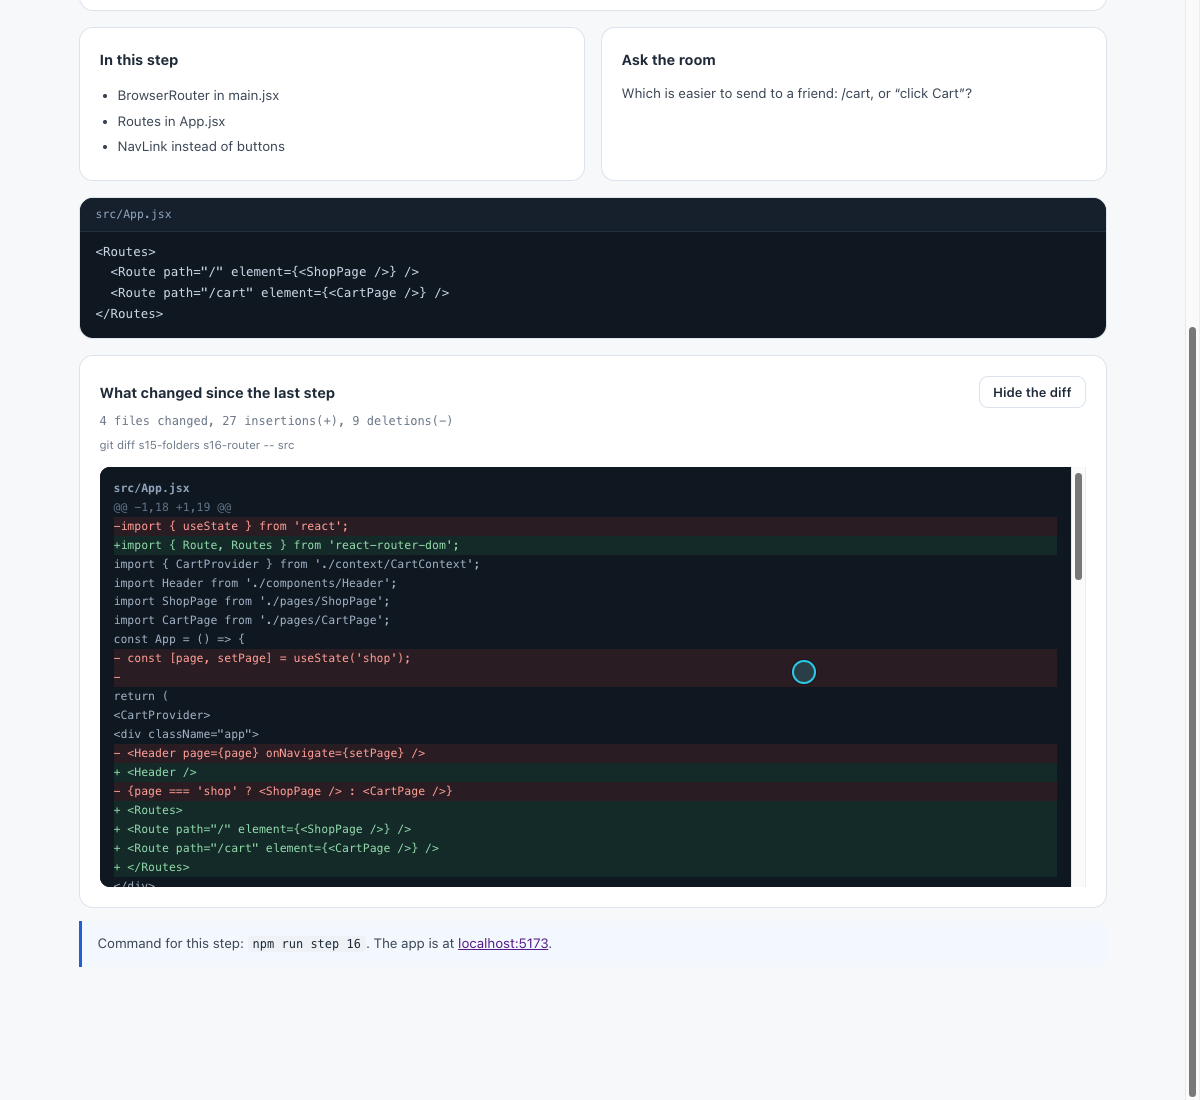
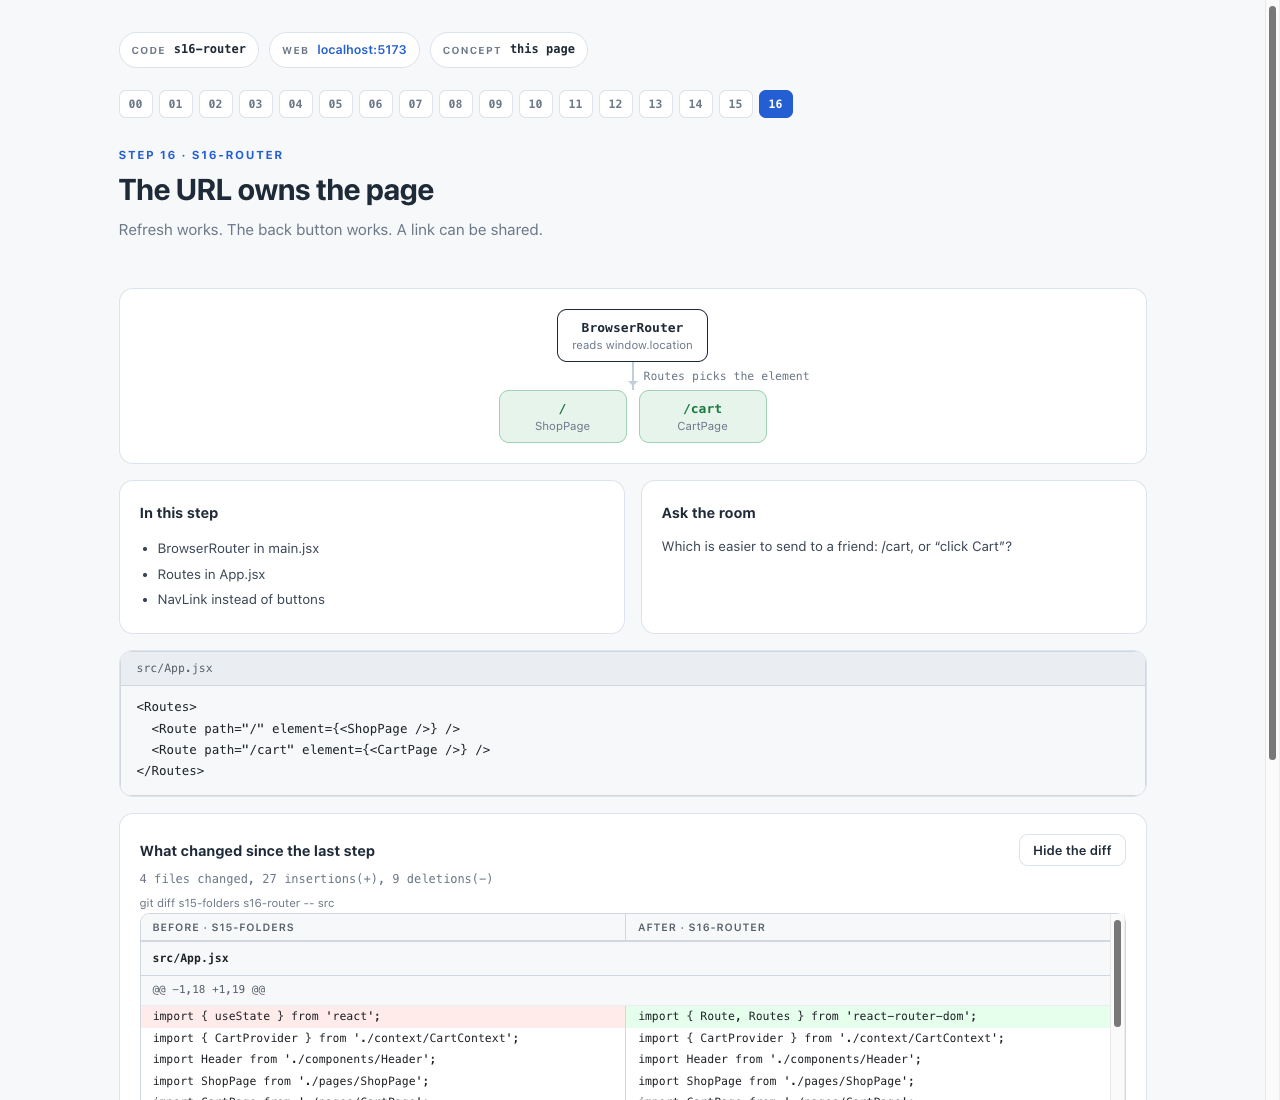
concepts: split diff, light code theme

diff --git a/concepts/step.html b/concepts/step.html
@@ -75,38 +75,80 @@ let manual = false;
 const esc = (s) => s.replace(/&/g, '&amp;').replace(/</g, '&lt;').replace(/>/g, '&gt;');
 let diffFor = null;
 
-function diffHtml(raw) {
-  let html = '';
+function diffHtml(raw, from, to) {
+  const files = [];
+  let file = null;
+  let hunk = null;
+  let dels = [];
+  let adds = [];
+
+  const flush = () => {
+    if (!hunk) return;
+    const rows = Math.max(dels.length, adds.length);
+    for (let i = 0; i < rows; i += 1) {
+      hunk.rows.push({ left: dels[i], right: adds[i] });
+    }
+    dels = [];
+    adds = [];
+  };
 
   for (const line of raw.split('\n')) {
     if (line.startsWith('diff --git')) {
+      flush();
       const match = line.match(/ b\/(.*)$/);
-      html += `<span class="f">${esc(match ? match[1] : line)}</span>`;
-    } else if (
-      line.startsWith('index ') ||
-      line.startsWith('--- ') ||
-      line.startsWith('+++ ') ||
-      line.startsWith('similarity index')
-    ) {
-      /* noise */
+      file = { path: match ? match[1] : line, note: '', hunks: [] };
+      files.push(file);
+      hunk = null;
+    } else if (!file) {
+      continue;
     } else if (line.startsWith('new file mode')) {
-      html += '<span class="h">new file</span>';
+      file.note = 'new file';
     } else if (line.startsWith('rename from ')) {
-      html += `<span class="h">renamed from ${esc(line.slice(12))}</span>`;
+      file.note = `renamed from ${line.slice(12)}`;
     } else if (line.startsWith('rename to ')) {
-      html += `<span class="h">renamed to ${esc(line.slice(10))}</span>`;
+      file.note = `${file.note} → ${line.slice(10)}`;
     } else if (line.startsWith('@@')) {
-      html += `<span class="h">${esc(line)}</span>`;
-    } else if (line.startsWith('+')) {
-      html += `<span class="add">${esc(line)}</span>`;
+      flush();
+      hunk = { header: line, rows: [] };
+      file.hunks.push(hunk);
+    } else if (!hunk) {
+      continue;
     } else if (line.startsWith('-')) {
-      html += `<span class="del">${esc(line)}</span>`;
-    } else {
-      html += `<span class="ctx">${esc(line)}</span>`;
+      dels.push(line.slice(1));
+    } else if (line.startsWith('+')) {
+      adds.push(line.slice(1));
+    } else if (line.startsWith(' ')) {
+      flush();
+      const text = line.slice(1);
+      hunk.rows.push({ left: text, right: text, ctx: true });
+    }
+  }
+  flush();
+
+  let html = `<div class="diff2">
+    <div class="diff2-head"><span>before · ${esc(from)}</span><span>after · ${esc(to)}</span></div>`;
+
+  for (const f of files) {
+    html += `<div class="diff2-file">${esc(f.path)}${f.note ? ` <em>${esc(f.note)}</em>` : ''}</div>`;
+
+    for (const h of f.hunks) {
+      html += `<div class="diff2-hunk">${esc(h.header)}</div>`;
+
+      for (const row of h.rows) {
+        const left =
+          row.left === undefined
+            ? '<div class="diff2-cell empty"></div>'
+            : `<div class="diff2-cell ${row.ctx ? 'ctx' : 'del'}">${esc(row.left) || '&#8203;'}</div>`;
+        const right =
+          row.right === undefined
+            ? '<div class="diff2-cell empty"></div>'
+            : `<div class="diff2-cell ${row.ctx ? 'ctx' : 'add'}">${esc(row.right) || '&#8203;'}</div>`;
+        html += `<div class="diff2-row">${left}${right}</div>`;
+      }
     }
   }
 
-  return html;
+  return `${html}</div>`;
 }
 
 async function loadDiff(n) {
@@ -136,7 +178,7 @@ async function loadDiff(n) {
     stat.textContent = (data.stat.split('\n').pop() || '').trim();
     cmd.textContent = `git diff ${data.from} ${data.to} -- src`;
 
-    body.innerHTML = diffHtml(data.raw);
+    body.innerHTML = diffHtml(data.raw, data.from, data.to);
     toggle.hidden = false;
     toggle.onclick = () => {
       body.hidden = !body.hidden;

diff --git a/concepts/concepts.css b/concepts/concepts.css
@@ -85,19 +85,28 @@ section.sec { margin-top: 46px; }
   margin: 0;
   padding: 14px 16px;
   overflow: auto;
+  border: 1px solid #d0d7de;
   border-radius: 10px;
-  background: #0f1720;
-  color: #c8d6e6;
-  font: 12.5px/1.65 var(--mono);
+  background: #f6f8fa;
+  color: #1f2328;
+  font: 12.5px/1.7 var(--mono);
   white-space: pre;
   tab-size: 2;
 }
-.code b { color: #7fb2ff; font-weight: 600; }
-.code .c { color: #6b7f97; }
-.code .r { color: #ff8d85; }
-.code .g { color: #7fd39b; }
-.code .dim { color: #4d5f75; }
-.code .file { display: block; margin: -14px -16px 10px; padding: 7px 16px; background: #16202c; color: #8fa4bd; font-size: 11.5px; border-bottom: 1px solid #22303f; }
+.code b { color: #0550ae; font-weight: 600; }
+.code .c { color: #6e7781; }
+.code .r { color: #cf222e; }
+.code .g { color: #116329; }
+.code .dim { color: #8c959f; }
+.code .file {
+  display: block;
+  margin: -14px -16px 10px;
+  padding: 7px 16px;
+  background: #eaeef2;
+  color: #57606a;
+  font-size: 11.5px;
+  border-bottom: 1px solid #d0d7de;
+}
 
 /* buttons */
 .btns { display: flex; gap: 8px; flex-wrap: wrap; }
@@ -324,22 +333,60 @@ td code, p code, li code, .note code { font: 12px var(--mono); background: #eef1
   .dg-split { grid-template-columns: 1fr; }
 }
 
-/* ── diff ──────────────────────────────────────────────── */
-.diff-box {
-  margin-top: 12px;
-  padding: 12px 14px;
+/* ── diff (split, GitHub light) ────────────────────────── */
+.diff2 {
+  border: 1px solid #d0d7de;
   border-radius: 10px;
-  background: #0f1720;
   overflow: auto;
-  max-height: 420px;
+  max-height: 460px;
+  background: #ffffff;
   font-family: var(--mono);
   font-size: 11.5px;
-  line-height: 1.65;
+  line-height: 1.7;
 }
-.diff-box .f { display: block; margin-top: 12px; color: #8fa4bd; font-weight: 600; }
-.diff-box .f:first-child { margin-top: 0; }
-.diff-box .h { display: block; color: #5f7288; }
-.diff-box .add { display: block; color: #8fd8a8; background: rgba(40, 160, 90, 0.14); }
-.diff-box .del { display: block; color: #ff9a92; background: rgba(200, 60, 50, 0.14); }
-.diff-box .ctx { display: block; color: #9fb0c4; }
+.diff2-head {
+  position: sticky;
+  top: 0;
+  z-index: 1;
+  display: grid;
+  grid-template-columns: 1fr 1fr;
+  background: #f6f8fa;
+  border-bottom: 1px solid #d0d7de;
+}
+.diff2-head span {
+  padding: 7px 12px;
+  font: 600 10.5px var(--sans);
+  letter-spacing: 0.08em;
+  text-transform: uppercase;
+  color: #57606a;
+}
+.diff2-head span + span { border-left: 1px solid #d0d7de; }
+.diff2-file {
+  padding: 7px 12px;
+  background: #f6f8fa;
+  border-top: 1px solid #d0d7de;
+  border-bottom: 1px solid #d0d7de;
+  font-weight: 600;
+  color: #1f2328;
+}
+.diff2-file em { font-style: normal; font-weight: 400; color: #57606a; }
+.diff2-hunk {
+  padding: 5px 12px;
+  background: #f6f8fa;
+  border-bottom: 1px solid #eaeef2;
+  color: #57606a;
+  font-size: 11px;
+}
+.diff2-row { display: grid; grid-template-columns: 1fr 1fr; }
+.diff2-cell {
+  padding: 1px 12px;
+  white-space: pre-wrap;
+  overflow-wrap: anywhere;
+  color: #1f2328;
+}
+.diff2-cell + .diff2-cell { border-left: 1px solid #d0d7de; }
+.diff2-cell.ctx { background: #ffffff; }
+.diff2-cell.del { background: #ffebe9; }
+.diff2-cell.add { background: #e6ffec; }
+.diff2-cell.empty { background: #f6f8fa; }
 .diff-stat { font: 12px var(--mono); color: var(--muted); }
